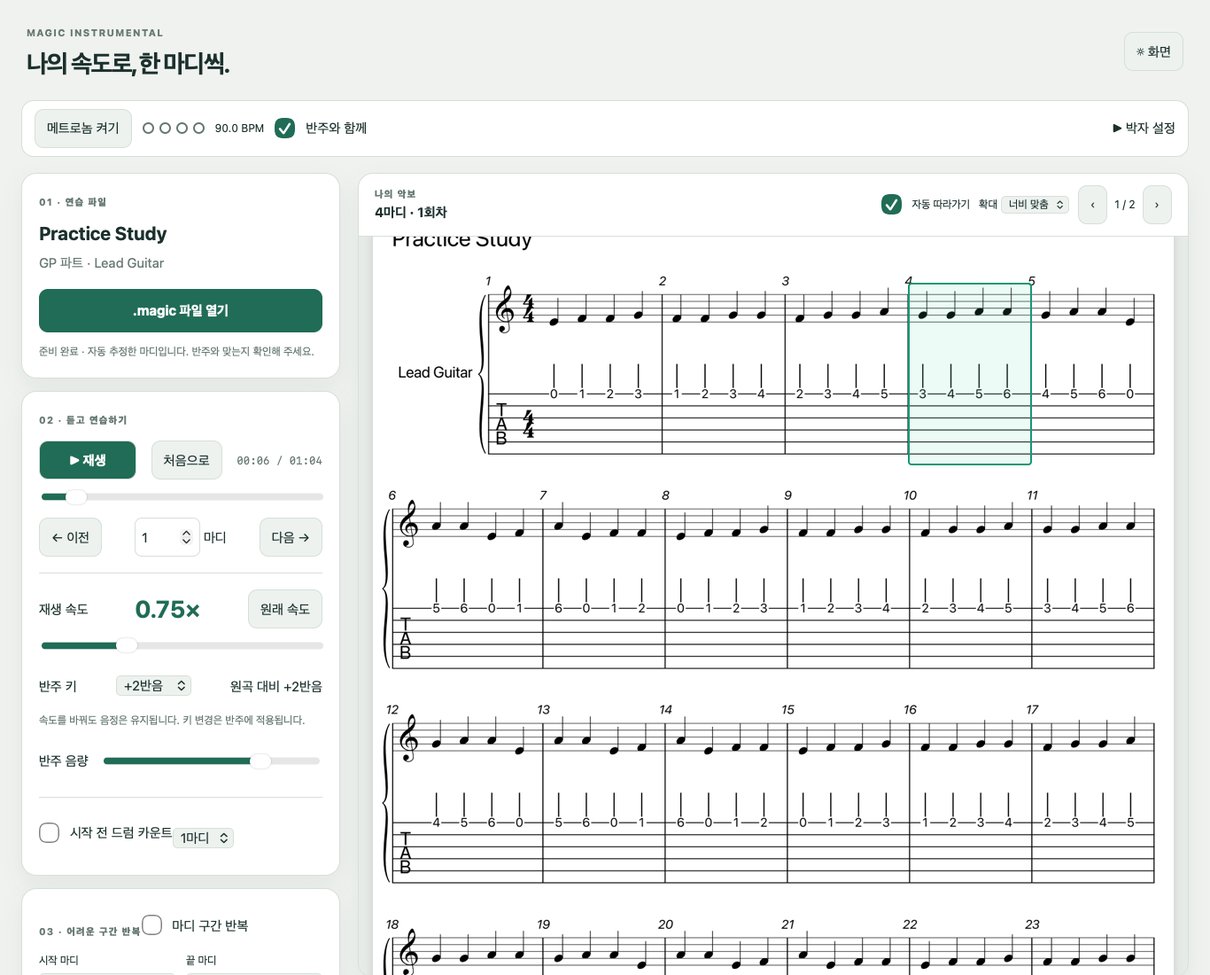
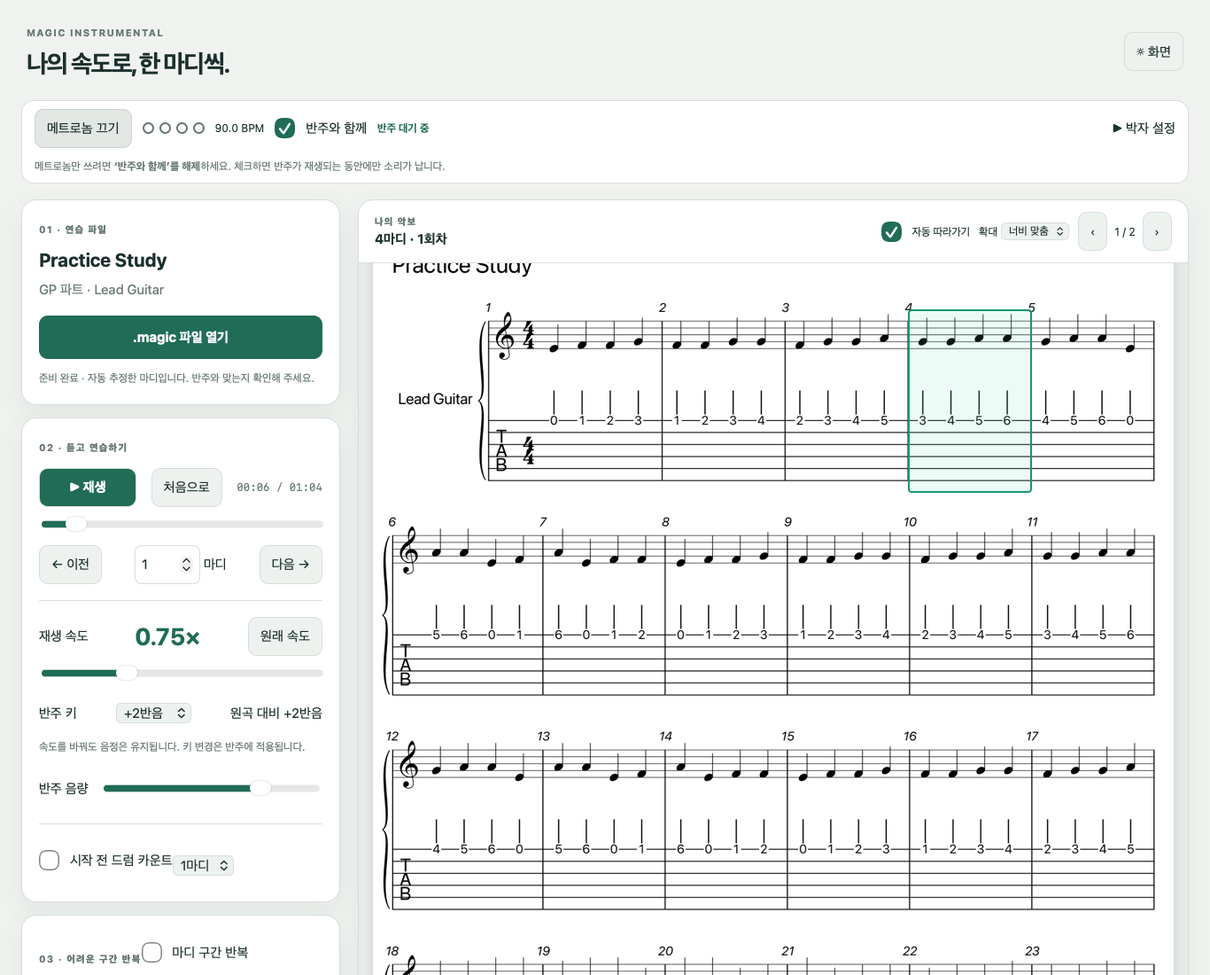
v2.0.2: explain standalone metronome and display playback state

diff --git a/web_player/index.html b/web_player/index.html
@@ -5,16 +5,18 @@
 *{box-sizing:border-box}body{margin:0;background:var(--bg);color:var(--ink);font:15px/1.55 -apple-system,BlinkMacSystemFont,"Segoe UI",sans-serif;padding:env(safe-area-inset-top) env(safe-area-inset-right) env(safe-area-inset-bottom) env(safe-area-inset-left)}button,input,select{font:inherit}button,select{min-height:44px;border:1px solid var(--line);border-radius:10px;background:var(--button);color:var(--ink);padding:8px 13px;cursor:pointer}button:hover{filter:brightness(.96)}button:disabled{opacity:.45;cursor:default}button:focus-visible,input:focus-visible,select:focus-visible,summary:focus-visible{outline:3px solid var(--accent);outline-offset:3px}button.primary,.file-button{background:var(--accent);color:var(--card);font-weight:700}.primary{min-width:110px}input[type=checkbox]{width:23px;height:23px;margin:0 8px 0 0;accent-color:var(--accent);vertical-align:middle}input[type=number]{width:74px;min-height:44px;padding:7px;border:1px solid var(--line);border-radius:8px;background:var(--card);color:var(--ink)}input[type=range]{width:100%;height:35px;accent-color:var(--accent);cursor:pointer}label{display:inline-flex;align-items:center;gap:4px;min-height:44px}header{padding:24px 30px 20px;display:flex;align-items:center;justify-content:space-between;gap:20px}.eyebrow,.step{font-size:11px;letter-spacing:.12em;font-weight:750;color:var(--muted)}h1{font-size:28px;letter-spacing:-.05em;margin:2px 0 0}h2{font-size:21px;margin:10px 0 4px;line-height:1.4}p{margin:7px 0 15px;color:var(--muted)}.small{font-size:12px}a{color:var(--accent)}.metronome{margin:0 24px 18px;padding:9px 14px;border:1px solid var(--line);border-radius:14px;background:var(--card);display:flex;align-items:center;flex-wrap:wrap;gap:12px}.metronome details{position:relative;margin-left:auto}.metro-settings{position:absolute;right:0;top:40px;z-index:5;width:310px;padding:18px;background:var(--card);border:1px solid var(--line);border-radius:12px;box-shadow:var(--shadow)}.metro-settings label{display:flex;justify-content:space-between;gap:10px}#dots{display:flex;flex-wrap:wrap;gap:6px;max-width:230px}.dot{width:13px;height:13px;border-radius:50%;border:2px solid var(--muted)}.dot.on{background:var(--accent);border-color:var(--accent);transform:scale(1.18)}#effective{font-size:12px;font-variant-numeric:tabular-nums}main{display:grid;grid-template-columns:minmax(325px,360px) minmax(0,1fr);gap:20px;padding:0 24px 24px;align-items:start}aside{display:grid;gap:14px}.card{padding:19px;background:var(--card);border:1px solid var(--line);border-radius:17px;box-shadow:var(--shadow)}.file-button{display:flex;position:relative;justify-content:center;padding:13px;border-radius:10px;cursor:pointer;margin-top:18px;overflow:hidden}.file-button input{position:absolute;inset:0;opacity:0;width:100%;height:100%;cursor:pointer}#status{font-size:12px;min-height:20px;margin:12px 0 0;overflow-wrap:anywhere}#title,#part{overflow-wrap:anywhere}.transport,.row{display:flex;align-items:center;gap:10px;justify-content:space-between}.transport{margin-top:13px;flex-wrap:wrap}#clock{font:12px ui-monospace,monospace;color:var(--muted)}#speedText{font-size:27px;color:var(--accent)}.range-label{display:flex;gap:14px;white-space:nowrap}.range-pair{display:grid;grid-template-columns:1fr 1fr;gap:12px;margin:8px 0}.range-pair label{display:grid;min-width:0;font-size:12px}.range-pair select{width:100%}hr{border:0;border-top:1px solid var(--line);margin:18px 0}.help{padding:6px 12px;font-size:13px}.help p{margin-top:10px}summary{cursor:pointer;min-height:36px;display:list-item;align-content:center}.score-area{position:sticky;top:12px;border:1px solid var(--line);border-radius:17px;overflow:hidden;background:var(--card);box-shadow:var(--shadow)}.score-toolbar{padding:13px 18px;display:flex;align-items:center;flex-wrap:wrap;gap:10px;border-bottom:1px solid var(--line)}.score-toolbar>div:first-child{display:grid;margin-right:auto;min-width:90px}.score-toolbar label{font-size:12px}.score-toolbar select{font-size:12px}.page-controls{display:flex;align-items:center;gap:8px;font-size:12px}#viewport{height:calc(100dvh - 265px);min-height:380px;overflow:auto;overscroll-behavior:contain;background:#aebbb04a;touch-action:pan-x pan-y;scrollbar-gutter:stable}#paper{position:relative;margin:16px auto;min-height:100%;background:#fff;box-shadow:0 3px 12px #0002}#scoreImage{width:100%;height:auto;display:block}#scoreImage[hidden]{display:none}#empty{text-align:center;padding:80px 25px;color:#305746}#empty span{font-size:64px;font-family:serif}#empty p{color:#6b8277}#highlight{position:absolute;border:2px solid #169873;border-radius:4px;background:#50daa91c;pointer-events:none}#measure{font-size:15px}#offline{margin:0 12px}.inline{display:inline-flex}#key{max-width:100px}
 @media(max-width:900px){header{padding:20px}.metronome{margin:0 16px 16px}main{padding:0 16px 20px;grid-template-columns:300px minmax(0,1fr);gap:14px}.card{padding:15px}.score-toolbar{padding:10px}h1{font-size:24px}.row{gap:5px}.row button{padding:8px}#viewport{height:calc(100dvh - 300px)}}
 @media(max-width:700px){main{display:flex;flex-direction:column}.score-area{position:relative;top:0;width:100%;order:-1}aside{width:100%}#viewport{height:55dvh;min-height:280px}.metronome{gap:8px}header{padding:16px}h1{font-size:22px}.score-toolbar{gap:8px}.score-toolbar>div:first-child{min-width:65px}.metronome details{margin-left:0}.metro-settings{position:fixed;top:150px;right:12px;left:12px;width:auto}#empty{padding:40px 15px}.transport{flex-wrap:nowrap}.card{padding:18px}}
+
+.metro-help{flex-basis:100%;font-size:12px;margin:0;color:var(--muted)}.metro-state{font-size:12px;color:var(--accent);font-weight:700}
 </style></head>
 <body>
 <header><div><span class="eyebrow">MAGIC INSTRUMENTAL</span><h1>나의 속도로, 한 마디씩.</h1></div><button id="theme" aria-label="밝은 화면과 어두운 화면 전환">☼ 화면</button></header>
-<section class="metronome" aria-label="메트로놈"><button id="metro" aria-pressed="false">메트로놈 켜기</button><div id="dots" aria-label="박자 표시"></div><span id="effective">120 BPM</span><label><input id="linked" type="checkbox" checked> 반주와 함께</label><details><summary>박자 설정</summary><div class="metro-settings"><label>원곡 BPM <input id="bpm" type="number" min="20" max="400" value="120"></label><label>박자 <input id="beats" type="number" min="1" max="16" value="4"> / <select id="unit"><option>2</option><option selected>4</option><option>8</option><option>16</option></select></label><label>첫 박 (초) <input id="origin" type="number" min="0" max="1800" value="0" step=".01"></label><button id="firstBeat">지금을 첫 박으로</button><label>메트로놈 음량 <input id="metroVolume" type="range" min="0" max="100" value="55"></label></div></details></section>
+<section class="metronome" aria-label="메트로놈"><button id="metro" aria-pressed="false">메트로놈 켜기</button><div id="dots" aria-label="박자 표시"></div><span id="effective">120 BPM</span><label><input id="linked" type="checkbox" checked> 반주와 함께</label><span id="metroState" class="metro-state" role="status">꺼짐</span><details><summary>박자 설정</summary><div class="metro-settings"><label>원곡 BPM <input id="bpm" type="number" min="20" max="400" value="120"></label><label>박자 <input id="beats" type="number" min="1" max="16" value="4"> / <select id="unit"><option>2</option><option selected>4</option><option>8</option><option>16</option></select></label><label>첫 박 (초) <input id="origin" type="number" min="0" max="1800" value="0" step=".01"></label><button id="firstBeat">지금을 첫 박으로</button><label>메트로놈 음량 <input id="metroVolume" type="range" min="0" max="100" value="55"></label></div></details><p class="metro-help">메트로놈만 쓰려면 <b>‘반주와 함께’를 해제</b>하세요. 체크하면 반주가 재생되는 동안에만 소리가 납니다.</p></section>
 <main><aside>
 <section class="card"><span class="step">01 · 연습 파일</span><h2 id="title">준비한 곡을 열어 주세요</h2><p id="part">컴퓨터에서 만든 .magic 파일 하나면 됩니다.</p><label class="file-button">.magic 파일 열기<input id="file" type="file" accept=".magic,application/zip"></label><p id="status" role="status" aria-live="polite">파일은 이 기기 안에서만 읽습니다.</p></section>
 <section class="card"><span class="step">02 · 듣고 연습하기</span><div class="transport"><button id="play" class="primary" disabled>▶ 재생</button><button id="home" disabled>처음으로</button><span id="clock">00:00 / 00:00</span></div><input id="seek" type="range" min="0" max="1" step=".01" value="0" aria-label="재생 위치" disabled><div class="row"><button id="back" disabled>← 이전</button><label><input id="step" type="number" min="1" max="10000" value="1"> 마디</label><button id="forward" disabled>다음 →</button></div><hr><div class="row"><label for="speed">재생 속도</label><strong id="speedText">1.00×</strong><button id="speedReset">원래 속도</button></div><input id="speed" type="range" min="25" max="200" value="100" aria-label="재생 속도"><div class="row"><label for="key">반주 키</label><select id="key"></select><span id="keyText">원곡</span></div><p class="small">속도를 바꿔도 음정은 유지됩니다. 키 변경은 반주에 적용됩니다.</p><label class="range-label">반주 음량<input id="volume" type="range" min="0" max="100" value="75"></label><hr><label><input id="count" type="checkbox"> 시작 전 드럼 카운트</label><label class="inline"> <select id="countBars"><option value="1">1마디</option><option value="2">2마디</option><option value="4">4마디</option></select></label></section>
 <section class="card"><span class="step">03 · 어려운 구간 반복</span><label><input id="loop" type="checkbox" disabled> 마디 구간 반복</label><div class="range-pair"><label>시작 마디<select id="loopStart" disabled></select></label><label>끝 마디<select id="loopEnd" disabled></select></label></div><label><input id="loopCount" type="checkbox"> 반복할 때마다 드럼 카운트</label><p class="small">끝 마디까지 포함합니다. 도돌이표의 각 회차를 따로 고를 수 있습니다.</p></section>
 <details class="help"><summary>처음 사용하시나요?</summary><p>컴퓨터의 Magic-Instrumental에서 반주와 악보 분석을 마친 뒤 ‘.magic 저장’을 누르세요. AirDrop·파일 전송으로 가져와 여기서 엽니다.</p><p>iPad는 Safari, Android는 Chrome에서 웹주소를 열고 ‘홈 화면에 추가’하면 앱스토어 없이 사용할 수 있습니다. 아래에 ‘오프라인 준비 완료’가 표시된 후에는 인터넷 없이도 열립니다.</p><p>연습 중에는 이 화면을 켜 두세요. 다른 앱으로 이동하면 일시정지됩니다. 음원과 악보는 정당한 권한을 가진 자료를 직접 준비해 주세요.</p></details>
-<p id="offline" class="small">오프라인 준비 상태 확인 중…</p><p class="small"><a href="LICENSE">GPL-3.0</a> · <a href="THIRD_PARTY_NOTICES.md">오픈소스 안내</a> · v2.0.1</p>
+<p id="offline" class="small">오프라인 준비 상태 확인 중…</p><p class="small"><a href="LICENSE">GPL-3.0</a> · <a href="THIRD_PARTY_NOTICES.md">오픈소스 안내</a> · v2.0.2</p>
 </aside><section class="score-area"><div class="score-toolbar"><div><span class="step">나의 악보</span><strong id="measure">—</strong></div><label><input id="follow" type="checkbox" checked> 자동 따라가기</label><label>확대 <select id="zoom"><option value="1">너비 맞춤</option><option value="1.25">125%</option><option value="1.5">150%</option><option value="2">200%</option><option value="2.5">250%</option><option value="3">300%</option></select></label><div class="page-controls"><button id="prevPage">‹</button><span id="pageText">0 / 0</span><button id="nextPage">›</button></div></div><div id="viewport"><div id="paper"><div id="empty"><span>♪</span><h2>연주할 파트가 여기 펼쳐집니다</h2><p>PDF 악보도, GP에서 고른 파트도<br>같은 .magic 파일로 가져오세요.</p></div><img id="scoreImage" alt="선택한 악보 페이지" hidden><div id="highlight" hidden></div></div></div></section></main>
 <script>
 var SignalsmithStretch = (() => {
@@ -571,7 +573,7 @@ let archive = null, ctx = null, stretch = null, musicGain = null, clickGain = nu
 let ready = false, loading = false, playing = false, metro = false, position = 0, duration = 0;
 let segment = null, upcoming = null, latency = .1, independentOrigin = 0, clickUntil = 0;
 let shownPage = -1, pendingPage = -1, pageGeneration = 0, currentCue = -1, urls = new Map(), sources = new Set();
-let token = 0, timer = null, wakeLock = null;
+let token = 0, timer = null, wakeLock = null, seeking = false;
 const setStatus = text => { $('status').textContent = text; };
 const fail = error => { pause(); setStatus(error?.message || '작업을 마치지 못했습니다. 다시 열어 주세요.'); };
 function phaseAt(input) {
@@ -726,6 +728,18 @@ function updateMetro() {
   const rate = $('linked').checked ? number('speed', 25, 200, 100) / 100 : 1;
   $('effective').textContent = `${(number('bpm', 20, 400, 120) * rate).toFixed(1)} BPM`;
 }
+function updateMetroState() {
+  let text = '꺼짐';
+  if (metro) {
+    if (number('metroVolume', 0, 100, 55) === 0) text = '음량 0% · 박자 설정에서 올려 주세요';
+    else if (!$('linked').checked) text = '메트로놈 단독 재생 중';
+    else if (!playing) text = '반주 대기 중';
+    else if (segment && ctx.currentTime < segment.out) text = segment.countBeats ? '드럼 카운트 후 반주와 시작' : '반주 시작 준비 중';
+    else if (nowPosition() < number('origin', 0, 1800, 0)) text = '설정한 첫 박을 기다리는 중';
+    else text = '반주와 함께 재생 중';
+  }
+  if ($('metroState').textContent !== text) $('metroState').textContent = text;
+}
 function updateDots() {
   let beat = null;
   if (ctx && playing && segment && ctx.currentTime < segment.out && ctx.currentTime >= segment.countStart) {
@@ -767,7 +781,7 @@ function resizePaper() {
 function showPosition() {
   const time = nowPosition(); position = time;
   $('clock').textContent = `${clockText(time)} / ${clockText(duration)}`;
-  if (document.activeElement !== $('seek')) $('seek').value = time;
+  if (!seeking) $('seek').value = time;
   const index = cueAt(time); currentCue = index;
   const cue = archive?.timing.cues[index];
   $('measure').textContent = cue ? `${cue.measure}마디 · ${cue.visit}회차` : '—';
@@ -790,7 +804,7 @@ function showPosition() {
     view.scrollTop += (desiredY - view.scrollTop) * .24;
   }
 }
-function frame() { if (ready) showPosition(); updateDots(); requestAnimationFrame(frame); }
+function frame() { if (ready) showPosition(); updateDots(); updateMetroState(); requestAnimationFrame(frame); }
 function setAvailable(value) {
   for (const id of ['play', 'home', 'seek', 'back', 'forward', 'loop', 'loopStart', 'loopEnd']) $(id).disabled = !value;
 }
@@ -857,7 +871,9 @@ $('key').value = 0;
 $('file').onchange = event => openFile(event.target.files[0]);
 $('play').onclick = () => playing ? pause() : play().catch(fail);
 $('home').onclick = () => seek(0).catch(fail);
-$('seek').onchange = () => seek(Number($('seek').value)).catch(fail);
+$('seek').oninput = () => { seeking = true; };
+$('seek').onchange = () => { const target = Number($('seek').value); seeking = false; seek(target).catch(fail); };
+$('seek').addEventListener('pointercancel', () => { seeking = false; });
 for (const [id, direction] of [['back',-1],['forward',1]]) $(id).onclick = () => {
   if (!archive) return;
   const index = clamp(cueAt(nowPosition()) + direction * Math.round(number('step',1,10000,1)), 0, archive.timing.cues.length - 1);

diff --git a/web_player/template.html b/web_player/template.html
@@ -2,12 +2,12 @@
 <html lang="ko"><head><meta charset="utf-8"><meta name="viewport" content="width=device-width,initial-scale=1,viewport-fit=cover"><meta name="theme-color" content="#132c29"><meta name="apple-mobile-web-app-capable" content="yes"><meta name="apple-mobile-web-app-title" content="Magic Player"><link rel="manifest" href="manifest.webmanifest"><link rel="apple-touch-icon" href="icon-192.png"><title>Magic Player · 연습 재생기</title><style>/*STYLE*/</style></head>
 <body>
 <header><div><span class="eyebrow">MAGIC INSTRUMENTAL</span><h1>나의 속도로, 한 마디씩.</h1></div><button id="theme" aria-label="밝은 화면과 어두운 화면 전환">☼ 화면</button></header>
-<section class="metronome" aria-label="메트로놈"><button id="metro" aria-pressed="false">메트로놈 켜기</button><div id="dots" aria-label="박자 표시"></div><span id="effective">120 BPM</span><label><input id="linked" type="checkbox" checked> 반주와 함께</label><details><summary>박자 설정</summary><div class="metro-settings"><label>원곡 BPM <input id="bpm" type="number" min="20" max="400" value="120"></label><label>박자 <input id="beats" type="number" min="1" max="16" value="4"> / <select id="unit"><option>2</option><option selected>4</option><option>8</option><option>16</option></select></label><label>첫 박 (초) <input id="origin" type="number" min="0" max="1800" value="0" step=".01"></label><button id="firstBeat">지금을 첫 박으로</button><label>메트로놈 음량 <input id="metroVolume" type="range" min="0" max="100" value="55"></label></div></details></section>
+<section class="metronome" aria-label="메트로놈"><button id="metro" aria-pressed="false">메트로놈 켜기</button><div id="dots" aria-label="박자 표시"></div><span id="effective">120 BPM</span><label><input id="linked" type="checkbox" checked> 반주와 함께</label><span id="metroState" class="metro-state" role="status">꺼짐</span><details><summary>박자 설정</summary><div class="metro-settings"><label>원곡 BPM <input id="bpm" type="number" min="20" max="400" value="120"></label><label>박자 <input id="beats" type="number" min="1" max="16" value="4"> / <select id="unit"><option>2</option><option selected>4</option><option>8</option><option>16</option></select></label><label>첫 박 (초) <input id="origin" type="number" min="0" max="1800" value="0" step=".01"></label><button id="firstBeat">지금을 첫 박으로</button><label>메트로놈 음량 <input id="metroVolume" type="range" min="0" max="100" value="55"></label></div></details><p class="metro-help">메트로놈만 쓰려면 <b>‘반주와 함께’를 해제</b>하세요. 체크하면 반주가 재생되는 동안에만 소리가 납니다.</p></section>
 <main><aside>
 <section class="card"><span class="step">01 · 연습 파일</span><h2 id="title">준비한 곡을 열어 주세요</h2><p id="part">컴퓨터에서 만든 .magic 파일 하나면 됩니다.</p><label class="file-button">.magic 파일 열기<input id="file" type="file" accept=".magic,application/zip"></label><p id="status" role="status" aria-live="polite">파일은 이 기기 안에서만 읽습니다.</p></section>
 <section class="card"><span class="step">02 · 듣고 연습하기</span><div class="transport"><button id="play" class="primary" disabled>▶ 재생</button><button id="home" disabled>처음으로</button><span id="clock">00:00 / 00:00</span></div><input id="seek" type="range" min="0" max="1" step=".01" value="0" aria-label="재생 위치" disabled><div class="row"><button id="back" disabled>← 이전</button><label><input id="step" type="number" min="1" max="10000" value="1"> 마디</label><button id="forward" disabled>다음 →</button></div><hr><div class="row"><label for="speed">재생 속도</label><strong id="speedText">1.00×</strong><button id="speedReset">원래 속도</button></div><input id="speed" type="range" min="25" max="200" value="100" aria-label="재생 속도"><div class="row"><label for="key">반주 키</label><select id="key"></select><span id="keyText">원곡</span></div><p class="small">속도를 바꿔도 음정은 유지됩니다. 키 변경은 반주에 적용됩니다.</p><label class="range-label">반주 음량<input id="volume" type="range" min="0" max="100" value="75"></label><hr><label><input id="count" type="checkbox"> 시작 전 드럼 카운트</label><label class="inline"> <select id="countBars"><option value="1">1마디</option><option value="2">2마디</option><option value="4">4마디</option></select></label></section>
 <section class="card"><span class="step">03 · 어려운 구간 반복</span><label><input id="loop" type="checkbox" disabled> 마디 구간 반복</label><div class="range-pair"><label>시작 마디<select id="loopStart" disabled></select></label><label>끝 마디<select id="loopEnd" disabled></select></label></div><label><input id="loopCount" type="checkbox"> 반복할 때마다 드럼 카운트</label><p class="small">끝 마디까지 포함합니다. 도돌이표의 각 회차를 따로 고를 수 있습니다.</p></section>
 <details class="help"><summary>처음 사용하시나요?</summary><p>컴퓨터의 Magic-Instrumental에서 반주와 악보 분석을 마친 뒤 ‘.magic 저장’을 누르세요. AirDrop·파일 전송으로 가져와 여기서 엽니다.</p><p>iPad는 Safari, Android는 Chrome에서 웹주소를 열고 ‘홈 화면에 추가’하면 앱스토어 없이 사용할 수 있습니다. 아래에 ‘오프라인 준비 완료’가 표시된 후에는 인터넷 없이도 열립니다.</p><p>연습 중에는 이 화면을 켜 두세요. 다른 앱으로 이동하면 일시정지됩니다. 음원과 악보는 정당한 권한을 가진 자료를 직접 준비해 주세요.</p></details>
-<p id="offline" class="small">오프라인 준비 상태 확인 중…</p><p class="small"><a href="LICENSE">GPL-3.0</a> · <a href="THIRD_PARTY_NOTICES.md">오픈소스 안내</a> · v2.0.1</p>
+<p id="offline" class="small">오프라인 준비 상태 확인 중…</p><p class="small"><a href="LICENSE">GPL-3.0</a> · <a href="THIRD_PARTY_NOTICES.md">오픈소스 안내</a> · v2.0.2</p>
 </aside><section class="score-area"><div class="score-toolbar"><div><span class="step">나의 악보</span><strong id="measure">—</strong></div><label><input id="follow" type="checkbox" checked> 자동 따라가기</label><label>확대 <select id="zoom"><option value="1">너비 맞춤</option><option value="1.25">125%</option><option value="1.5">150%</option><option value="2">200%</option><option value="2.5">250%</option><option value="3">300%</option></select></label><div class="page-controls"><button id="prevPage">‹</button><span id="pageText">0 / 0</span><button id="nextPage">›</button></div></div><div id="viewport"><div id="paper"><div id="empty"><span>♪</span><h2>연주할 파트가 여기 펼쳐집니다</h2><p>PDF 악보도, GP에서 고른 파트도<br>같은 .magic 파일로 가져오세요.</p></div><img id="scoreImage" alt="선택한 악보 페이지" hidden><div id="highlight" hidden></div></div></div></section></main>
 <script>/*VENDOR*/</script><script>/*ARCHIVE*/</script><script>/*APP*/</script></body></html>

diff --git a/web_player/style.css b/web_player/style.css
@@ -4,3 +4,5 @@
 *{box-sizing:border-box}body{margin:0;background:var(--bg);color:var(--ink);font:15px/1.55 -apple-system,BlinkMacSystemFont,"Segoe UI",sans-serif;padding:env(safe-area-inset-top) env(safe-area-inset-right) env(safe-area-inset-bottom) env(safe-area-inset-left)}button,input,select{font:inherit}button,select{min-height:44px;border:1px solid var(--line);border-radius:10px;background:var(--button);color:var(--ink);padding:8px 13px;cursor:pointer}button:hover{filter:brightness(.96)}button:disabled{opacity:.45;cursor:default}button:focus-visible,input:focus-visible,select:focus-visible,summary:focus-visible{outline:3px solid var(--accent);outline-offset:3px}button.primary,.file-button{background:var(--accent);color:var(--card);font-weight:700}.primary{min-width:110px}input[type=checkbox]{width:23px;height:23px;margin:0 8px 0 0;accent-color:var(--accent);vertical-align:middle}input[type=number]{width:74px;min-height:44px;padding:7px;border:1px solid var(--line);border-radius:8px;background:var(--card);color:var(--ink)}input[type=range]{width:100%;height:35px;accent-color:var(--accent);cursor:pointer}label{display:inline-flex;align-items:center;gap:4px;min-height:44px}header{padding:24px 30px 20px;display:flex;align-items:center;justify-content:space-between;gap:20px}.eyebrow,.step{font-size:11px;letter-spacing:.12em;font-weight:750;color:var(--muted)}h1{font-size:28px;letter-spacing:-.05em;margin:2px 0 0}h2{font-size:21px;margin:10px 0 4px;line-height:1.4}p{margin:7px 0 15px;color:var(--muted)}.small{font-size:12px}a{color:var(--accent)}.metronome{margin:0 24px 18px;padding:9px 14px;border:1px solid var(--line);border-radius:14px;background:var(--card);display:flex;align-items:center;flex-wrap:wrap;gap:12px}.metronome details{position:relative;margin-left:auto}.metro-settings{position:absolute;right:0;top:40px;z-index:5;width:310px;padding:18px;background:var(--card);border:1px solid var(--line);border-radius:12px;box-shadow:var(--shadow)}.metro-settings label{display:flex;justify-content:space-between;gap:10px}#dots{display:flex;flex-wrap:wrap;gap:6px;max-width:230px}.dot{width:13px;height:13px;border-radius:50%;border:2px solid var(--muted)}.dot.on{background:var(--accent);border-color:var(--accent);transform:scale(1.18)}#effective{font-size:12px;font-variant-numeric:tabular-nums}main{display:grid;grid-template-columns:minmax(325px,360px) minmax(0,1fr);gap:20px;padding:0 24px 24px;align-items:start}aside{display:grid;gap:14px}.card{padding:19px;background:var(--card);border:1px solid var(--line);border-radius:17px;box-shadow:var(--shadow)}.file-button{display:flex;position:relative;justify-content:center;padding:13px;border-radius:10px;cursor:pointer;margin-top:18px;overflow:hidden}.file-button input{position:absolute;inset:0;opacity:0;width:100%;height:100%;cursor:pointer}#status{font-size:12px;min-height:20px;margin:12px 0 0;overflow-wrap:anywhere}#title,#part{overflow-wrap:anywhere}.transport,.row{display:flex;align-items:center;gap:10px;justify-content:space-between}.transport{margin-top:13px;flex-wrap:wrap}#clock{font:12px ui-monospace,monospace;color:var(--muted)}#speedText{font-size:27px;color:var(--accent)}.range-label{display:flex;gap:14px;white-space:nowrap}.range-pair{display:grid;grid-template-columns:1fr 1fr;gap:12px;margin:8px 0}.range-pair label{display:grid;min-width:0;font-size:12px}.range-pair select{width:100%}hr{border:0;border-top:1px solid var(--line);margin:18px 0}.help{padding:6px 12px;font-size:13px}.help p{margin-top:10px}summary{cursor:pointer;min-height:36px;display:list-item;align-content:center}.score-area{position:sticky;top:12px;border:1px solid var(--line);border-radius:17px;overflow:hidden;background:var(--card);box-shadow:var(--shadow)}.score-toolbar{padding:13px 18px;display:flex;align-items:center;flex-wrap:wrap;gap:10px;border-bottom:1px solid var(--line)}.score-toolbar>div:first-child{display:grid;margin-right:auto;min-width:90px}.score-toolbar label{font-size:12px}.score-toolbar select{font-size:12px}.page-controls{display:flex;align-items:center;gap:8px;font-size:12px}#viewport{height:calc(100dvh - 265px);min-height:380px;overflow:auto;overscroll-behavior:contain;background:#aebbb04a;touch-action:pan-x pan-y;scrollbar-gutter:stable}#paper{position:relative;margin:16px auto;min-height:100%;background:#fff;box-shadow:0 3px 12px #0002}#scoreImage{width:100%;height:auto;display:block}#scoreImage[hidden]{display:none}#empty{text-align:center;padding:80px 25px;color:#305746}#empty span{font-size:64px;font-family:serif}#empty p{color:#6b8277}#highlight{position:absolute;border:2px solid #169873;border-radius:4px;background:#50daa91c;pointer-events:none}#measure{font-size:15px}#offline{margin:0 12px}.inline{display:inline-flex}#key{max-width:100px}
 @media(max-width:900px){header{padding:20px}.metronome{margin:0 16px 16px}main{padding:0 16px 20px;grid-template-columns:300px minmax(0,1fr);gap:14px}.card{padding:15px}.score-toolbar{padding:10px}h1{font-size:24px}.row{gap:5px}.row button{padding:8px}#viewport{height:calc(100dvh - 300px)}}
 @media(max-width:700px){main{display:flex;flex-direction:column}.score-area{position:relative;top:0;width:100%;order:-1}aside{width:100%}#viewport{height:55dvh;min-height:280px}.metronome{gap:8px}header{padding:16px}h1{font-size:22px}.score-toolbar{gap:8px}.score-toolbar>div:first-child{min-width:65px}.metronome details{margin-left:0}.metro-settings{position:fixed;top:150px;right:12px;left:12px;width:auto}#empty{padding:40px 15px}.transport{flex-wrap:nowrap}.card{padding:18px}}
+
+.metro-help{flex-basis:100%;font-size:12px;margin:0;color:var(--muted)}.metro-state{font-size:12px;color:var(--accent);font-weight:700}

diff --git a/web_player/app.js b/web_player/app.js
@@ -10,7 +10,7 @@ let archive = null, ctx = null, stretch = null, musicGain = null, clickGain = nu
 let ready = false, loading = false, playing = false, metro = false, position = 0, duration = 0;
 let segment = null, upcoming = null, latency = .1, independentOrigin = 0, clickUntil = 0;
 let shownPage = -1, pendingPage = -1, pageGeneration = 0, currentCue = -1, urls = new Map(), sources = new Set();
-let token = 0, timer = null, wakeLock = null;
+let token = 0, timer = null, wakeLock = null, seeking = false;
 const setStatus = text => { $('status').textContent = text; };
 const fail = error => { pause(); setStatus(error?.message || '작업을 마치지 못했습니다. 다시 열어 주세요.'); };
 function phaseAt(input) {
@@ -165,6 +165,18 @@ function updateMetro() {
   const rate = $('linked').checked ? number('speed', 25, 200, 100) / 100 : 1;
   $('effective').textContent = `${(number('bpm', 20, 400, 120) * rate).toFixed(1)} BPM`;
 }
+function updateMetroState() {
+  let text = '꺼짐';
+  if (metro) {
+    if (number('metroVolume', 0, 100, 55) === 0) text = '음량 0% · 박자 설정에서 올려 주세요';
+    else if (!$('linked').checked) text = '메트로놈 단독 재생 중';
+    else if (!playing) text = '반주 대기 중';
+    else if (segment && ctx.currentTime < segment.out) text = segment.countBeats ? '드럼 카운트 후 반주와 시작' : '반주 시작 준비 중';
+    else if (nowPosition() < number('origin', 0, 1800, 0)) text = '설정한 첫 박을 기다리는 중';
+    else text = '반주와 함께 재생 중';
+  }
+  if ($('metroState').textContent !== text) $('metroState').textContent = text;
+}
 function updateDots() {
   let beat = null;
   if (ctx && playing && segment && ctx.currentTime < segment.out && ctx.currentTime >= segment.countStart) {
@@ -206,7 +218,7 @@ function resizePaper() {
 function showPosition() {
   const time = nowPosition(); position = time;
   $('clock').textContent = `${clockText(time)} / ${clockText(duration)}`;
-  if (document.activeElement !== $('seek')) $('seek').value = time;
+  if (!seeking) $('seek').value = time;
   const index = cueAt(time); currentCue = index;
   const cue = archive?.timing.cues[index];
   $('measure').textContent = cue ? `${cue.measure}마디 · ${cue.visit}회차` : '—';
@@ -229,7 +241,7 @@ function showPosition() {
     view.scrollTop += (desiredY - view.scrollTop) * .24;
   }
 }
-function frame() { if (ready) showPosition(); updateDots(); requestAnimationFrame(frame); }
+function frame() { if (ready) showPosition(); updateDots(); updateMetroState(); requestAnimationFrame(frame); }
 function setAvailable(value) {
   for (const id of ['play', 'home', 'seek', 'back', 'forward', 'loop', 'loopStart', 'loopEnd']) $(id).disabled = !value;
 }
@@ -296,7 +308,9 @@ $('key').value = 0;
 $('file').onchange = event => openFile(event.target.files[0]);
 $('play').onclick = () => playing ? pause() : play().catch(fail);
 $('home').onclick = () => seek(0).catch(fail);
-$('seek').onchange = () => seek(Number($('seek').value)).catch(fail);
+$('seek').oninput = () => { seeking = true; };
+$('seek').onchange = () => { const target = Number($('seek').value); seeking = false; seek(target).catch(fail); };
+$('seek').addEventListener('pointercancel', () => { seeking = false; });
 for (const [id, direction] of [['back',-1],['forward',1]]) $(id).onclick = () => {
   if (!archive) return;
   const index = clamp(cueAt(nowPosition()) + direction * Math.round(number('step',1,10000,1)), 0, archive.timing.cues.length - 1);

diff --git a/web_player/sw.js b/web_player/sw.js
@@ -1,5 +1,5 @@
 /* SPDX-License-Identifier: GPL-3.0-only */
-const CACHE = 'magic-v2-11a7b0e7aedd0037';
+const CACHE = 'magic-v2-ec0fa4c6d027242a';
 const FILES = ['./', './index.html', './manifest.webmanifest', './icon-192.png', './icon-512.png'];
 self.addEventListener('install', event => event.waitUntil(
   caches.open(CACHE).then(cache => cache.addAll(FILES))));

diff --git a/tests/test_web_player.py b/tests/test_web_player.py
@@ -88,6 +88,11 @@ def test_gp_opens_plays_pitch_rate_seeks_and_follows(page, study_files):
     page.wait_for_timeout(1000)
     actual = frequency(page)
     assert actual["level"] > -60 and actual["frequency"] == pytest.approx(220, abs=4)
+    page.locator("#seek").focus()
+    page.locator("#seek").fill("3")
+    page.locator("#seek").dispatch_event("change")
+    page.wait_for_timeout(600)
+    assert float(page.locator("#seek").input_value()) > 3.2
     page.locator("#speed").fill("50")
     page.locator("#speed").dispatch_event("change")
     page.wait_for_timeout(400)
@@ -174,3 +179,29 @@ def test_corrupt_packages_rejected_without_executing_text(page, study_files, tmp
     page.wait_for_function("!MagicPlayer.state().loading")
     assert "허용되지 않은" in page.locator("#status").inner_text()
     assert not page.evaluate("window.executed || false")
+
+
+def test_standalone_metronome_hint_and_real_on_off_audio(page):
+    assert "해제" in page.locator(".metro-help").inner_text()
+    page.locator("#metro").click()
+    page.wait_for_function("MagicPlayer.state().metro")
+    page.wait_for_function("document.querySelector('#metroState').textContent === '반주 대기 중'")
+    page.locator("#linked").uncheck()
+    page.wait_for_function(
+        "document.querySelector('#metroState').textContent === '메트로놈 단독 재생 중'"
+    )
+    page.evaluate("""() => {
+      window.clickAnalyser=ctx.createAnalyser(); clickAnalyser.fftSize=2048;
+      clickGain.connect(clickAnalyser); window.clickPeak=0;
+      window.clickSampler=setInterval(()=>{const a=new Float32Array(2048);
+        clickAnalyser.getFloatTimeDomainData(a);
+        for(const n of a) clickPeak=Math.max(clickPeak,Math.abs(n));},5);
+    }""")
+    page.wait_for_timeout(1500)
+    assert page.evaluate("clickPeak") > 0.05
+    page.locator("#metro").click()
+    page.wait_for_timeout(200)
+    page.evaluate("clickPeak=0")
+    page.wait_for_timeout(700)
+    assert page.evaluate("clickPeak") < 0.001
+    assert page.locator("#metroState").inner_text() == "꺼짐"

diff --git a/tools/run_tests.py b/tools/run_tests.py
@@ -1,0 +1,36 @@
+# SPDX-License-Identifier: GPL-3.0-only
+"""CI runner: isolate native multimedia lifetime between test modules."""
+
+import subprocess
+import sys
+from pathlib import Path
+
+
+def main():
+    root = Path(__file__).resolve().parents[1]
+    for module in sorted((root / "tests").glob("test_*.py")):
+        print(f"\nTesting {module.name} in a fresh process", flush=True)
+        try:
+            result = subprocess.run(
+                [
+                    sys.executable,
+                    "-m",
+                    "pytest",
+                    "-q",
+                    str(module),
+                    "-o",
+                    "faulthandler_timeout=60",
+                ],
+                cwd=root,
+                timeout=240,
+            )
+        except subprocess.TimeoutExpired:
+            print(f"Timed out: {module.name}. Review the faulthandler trace above.", flush=True)
+            return 1
+        if result.returncode:
+            return result.returncode
+    return 0
+
+
+if __name__ == "__main__":
+    raise SystemExit(main())

diff --git a/practice_player/__init__.py b/practice_player/__init__.py
@@ -1,4 +1,4 @@
 # SPDX-License-Identifier: GPL-3.0-only
 """Magic-Instrumental: local instrumental practice player (GPL-3.0-only)."""
 
-__version__ = "2.0.1"
+__version__ = "2.0.2"

diff --git a/AI_CODER_README.md b/AI_CODER_README.md
@@ -1,6 +1,6 @@
 # AI Coder handoff — Magic-Instrumental
 
-Public release: **2.0.1**. Read `README.md`, `AGENTS.md`, and `CONTRIBUTING.md` before changes. This document intentionally contains no user recordings, score contents, personal paths, or private verification data.
+Public release: **2.0.2**. Read `README.md`, `AGENTS.md`, and `CONTRIBUTING.md` before changes. This document intentionally contains no user recordings, score contents, personal paths, or private verification data.
 
 ## Product requirements
 
@@ -172,3 +172,7 @@ Opt-in real browser tests (`RUN_WEB_TESTS=1`) require pinned Playwright and its 
 The native GP/key GUI test also defers window deletion and flushes DeferredDelete events at teardown. Leaving an old multimedia window alive across later tests can trigger a Qt decoder/GIL lock inversion during sound-effect shutdown; keep fixtures independently disposed. Do not use this test-only lifetime fix to claim every physical audio device is validated.
 
 Public tablet URL: https://jeongwoo-gobroad.github.io/Magic-Instrumental/ (GitHub Pages, `mobile-player` branch root). Verified published bytes match the built HTML, and Chromium/WebKit open native-GP bundles and replay them after an offline reload without upload requests. When syncing the branch, update both static-root copies and their `web_player/` source counterparts.
+
+Mobile metronome: the always-visible hint explains that standalone use requires clearing the linked checkbox. The header displays off, waiting for playback, standalone, linked playback, first-beat wait or zero-volume state. The default remains linked. Track whether the seek slider is actively being edited, not merely focused, so its thumb follows playback after a seek.
+
+CI uses `tools/run_tests.py` to isolate test modules into separate external-venv Python processes, with a bounded timeout and faulthandler diagnostics. This prevents native multimedia lifetime state from leaking between unrelated test modules and gives a visible failure if a native call stalls.

diff --git a/CONTRIBUTING.md b/CONTRIBUTING.md
@@ -83,3 +83,5 @@ See [`.magic` contract and browser architecture](docs/MAGIC_FORMAT.md). All brow
 Install the development requirements into the existing external venv, then run `python -m playwright install chromium webkit`. On macOS use `RUN_WEB_TESTS=1 python -m pytest -q tests/test_web_player.py`; on Windows set `$env:RUN_WEB_TESTS = '1'` before the same command. These opt-in tests launch actual Chromium/WebKit, read synthetic GP/PDF bundles, measure output frequency and media-time rate, exercise count/loop/offline paths, and reject malformed archives. Browser automation does not replace physical iPad/Android testing.
 
 `tools/capture_v2_screenshots.py` captures current Qt and web interfaces using original synthetic studies. `tools/build_release.py` explicitly allows the reviewed screenshots, web files and vendor pins. The deployment branch is `mobile-player`; only the static root is intended for public hosting. Runtime user songs, `.magic` archives, score source paths and diagnostics must stay excluded.
+
+CI invokes `tools/run_tests.py`, which runs each test module in a fresh process with a four-minute bound and faulthandler traces after one minute. This isolates native Qt multimedia lifetimes across unrelated modules. Opt-in long-running real-model experiments should use their documented direct pytest invocation instead.
